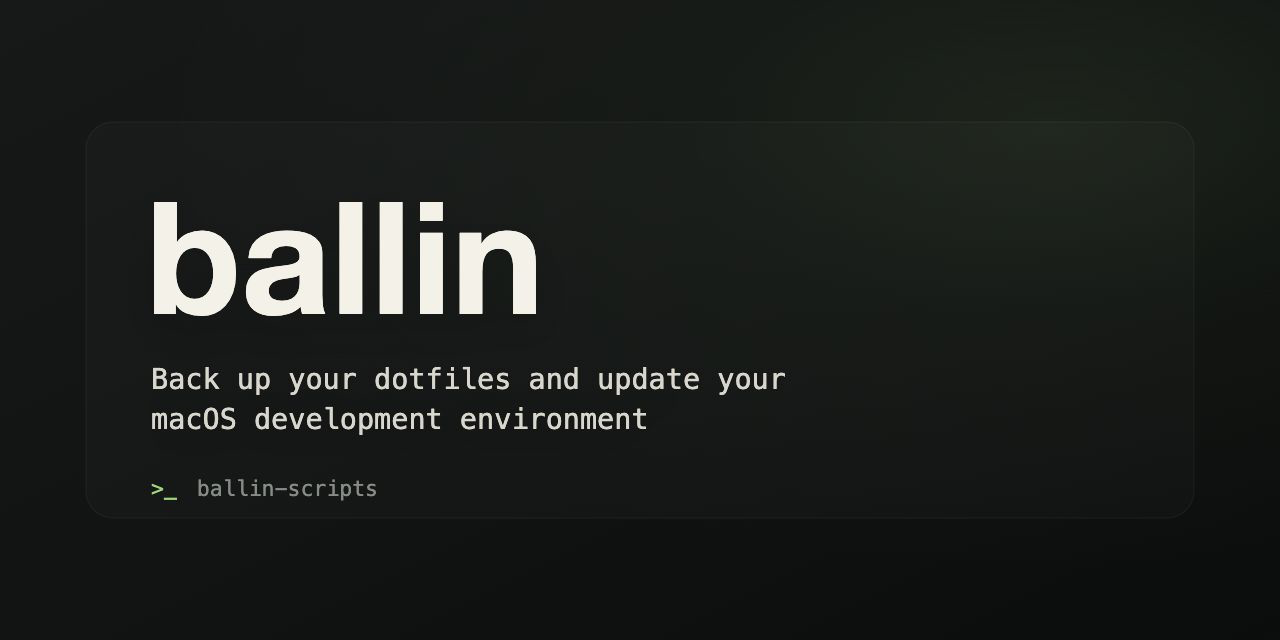
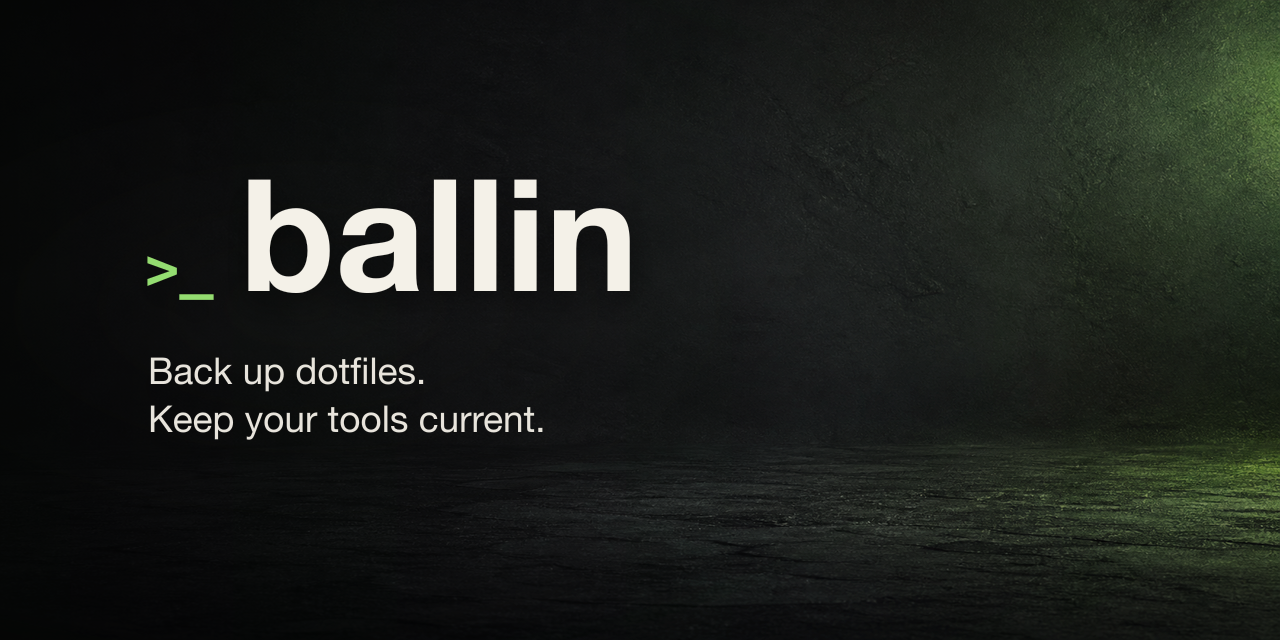
docs: refresh social preview asset

diff --git a/docs/assets/brand/README.md b/docs/assets/brand/README.md
@@ -8,26 +8,28 @@ this folder and the steps for regenerating image files from editable sources.
 
 ## GitHub social preview
 
+- Background: `social-preview-background.png`
 - Source: `social-preview.svg`
 - Generated image: `social-preview.png`
 - Size: `1280x640`
-- Primary identity: lowercase `ballin`
-- Supporting copy: `Back up your dotfiles and update your macOS development environment`
+- Primary identity: `>_ ballin`
+- Supporting copy: `Back up dotfiles. Keep your tools current.`
 
-Keep the SVG editable. Treat the PNG as the GitHub upload artifact.
+The social preview follows the high-fidelity raster background plus editable SVG
+typography workflow documented in the design system. Keep
+`social-preview-background.png` as the unchanged AI-generated background plate,
+keep `social-preview.svg` as the editable typography and composition layer, and
+treat `social-preview.png` as the GitHub upload artifact. The background plate
+and composed export are both `1280x640`.
 
 The social preview follows the wordmark-led direction documented in the design
-system. README hero assets use the same identity system, including matte
-graphite backgrounds, off-white type, and subtle green accents.
+system. It intentionally stays simpler and more identity-first than the README
+hero, with a low-detail graphite background, off-white type, strong negative
+space, and a restrained green prompt accent.
 
 When refreshing the PNG, render the SVG at exactly `1280x640` and overwrite
 `social-preview.png`. Avoid thumbnail rendering tools that pad or crop the source
 artwork.
-
-Future high-fidelity social preview refreshes may follow the raster background
-plate plus editable SVG typography workflow documented in the design system.
-The current social preview remains the existing fully vector asset until that
-refresh is intentionally designed.
 
 ## README hero
 

diff --git a/docs/design-system.md b/docs/design-system.md
@@ -145,14 +145,19 @@ Avoid:
 Different assets have different jobs:
 
 - Social preview: recognition and first impression. Keep it simple, polished,
-  and identity-first.
+  and identity-first. It must hold up at small card and thumbnail sizes.
 - README hero: legitimacy, trust, and workflow fit. It can be more atmospheric
   than the social preview, but should be quieter and support the documentation.
 - README and docs: explanation. Detailed product behavior belongs in text, not
   inside image assets.
 
-The social preview is the identity-first asset. The README hero is informed by
-this guidance rather than broad visual exploration.
+The social preview is the identity-first asset. Even when it uses a raster
+background plate, keep the composition simpler than the README hero: low-detail
+texture, strong negative space, large editable typography, and no fake UI,
+feature strips, objects, or readable background text.
+
+The README hero is informed by this guidance rather than broad visual
+exploration.
 
 README onboarding and top-copy changes should use the copy system here when
 evaluating the README opening, prerequisites, installation wording,
@@ -224,7 +229,9 @@ High-fidelity brand or marketing imagery may combine a raster background plate
 with editable SVG typography when realistic lighting, texture, or material
 quality matters. Use this as the default direction for future atmospheric
 assets, including future social preview or README hero refreshes, unless the
-asset is better served by a simple fully vector treatment.
+asset is better served by a simple fully vector treatment. Social previews
+should use this workflow only when the raster plate stays quiet enough to
+preserve thumbnail legibility.
 
 In that workflow:
 
@@ -235,6 +242,7 @@ In that workflow:
 Current social preview assets:
 
 ```text
+docs/assets/brand/social-preview-background.png
 docs/assets/brand/social-preview.svg
 docs/assets/brand/social-preview.png
 ```